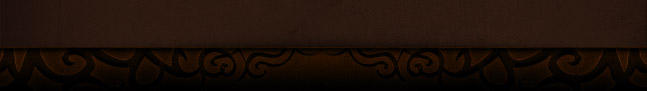
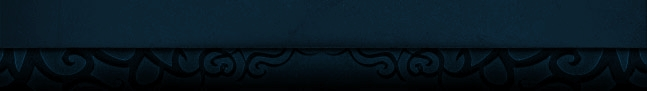
Web/Update: More work on the Default Theme.

diff --git a/wow/static/Themes/Default/css/wow.css b/wow/static/Themes/Default/css/wow.css
@@ -355,9 +355,9 @@ tr:hover .fansite-link,
 .chrome #menu li a span { text-shadow: none; }
 
 /* content */
-#content { background-color: #1a0f08 !important; margin: 0 6px; }
-#content .content-top { background: url("../images/layout/content-topbot.png") 0 0 no-repeat; }
-#content .content-bot { background: url("../images/layout/content-topbot.png") -992px bottom no-repeat; min-height: 600px; }
+#content { background-color: #06131B !important; margin: 0 6px; }
+#content .content-top { background: url("../images/layout/content-topbot.jpg") 0 0 no-repeat; }
+#content .content-bot { background: url("../images/layout/content-topbot.jpg") -992px bottom no-repeat; min-height: 600px; }
 #content .content-trail { height: 30px; padding: 10px 0 0 22px; }
 #content .content-header { padding: 25px; padding-top: 35px; }
 #content .content-header .header { color: #efe3d2; font: 52px/85% "Palatino Linotype", Georgia, Times, sans-serif; letter-spacing: -1.5px; text-shadow: #241209 0 0 5px; }
@@ -447,7 +447,7 @@ tr:hover .fansite-link,
 
 	/* real table */
 	.table table { width: 100%; table-layout: auto; }
-	.table thead th { padding: 0; background: #4d1a08 url("../images/content/table-header.gif") 0 100% repeat-x; border-bottom: 1px solid #1a0f08; white-space: nowrap; }
+	.table thead th { padding: 0; background: #4d1a08 url("../images/content/table-header.gif") 0 100% repeat-x; border-bottom: 1px solid #06131B; white-space: nowrap; }
 	.table thead th, .table thead th a { color: #F5EBD1; font-weight: bold;}
 	.table thead th.align-center .sort-tab, .table thead th.align-center .sort-link { text-align: center; }
 	.table thead th.align-right .sort-tab, .table thead th.align-right .sort-link { text-align: right; }

diff --git a/media/index.php b/media/index.php
@@ -7,23 +7,20 @@ $page_cat="media";
 <!--[if IE 7]>         <html class="no-js lt-ie9 lt-ie8"> <![endif]-->
 <!--[if IE 8]>         <html class="no-js lt-ie9"> <![endif]-->
 <!--[if gt IE 8]><!--> <html class="no-js"> <!--<![endif]-->
- <html lang="en-gb">
+<html lang="en-gb">
 <head>
 <title><?php echo $website['title']; ?></title>
 <meta content="false" http-equiv="imagetoolbar" />
 <meta content="IE=edge,chrome=1" http-equiv="X-UA-Compatible" />
 <meta name="description" content="<?php echo $website['description']; ?>">
 <meta name="keywords" content="<?php echo $website['keywords']; ?>">
-<link rel="shortcut icon" href="../wow/static/local-common/images/favicons/wow.png" type="image/x-icon" />
-<link rel="search" type="application/opensearchdescription+xml" href="http://eu.battle.net/en-gb/data/opensearch" title="Battle.net Search" />
-<link rel="stylesheet" href="../wow/static/local-common/css/common.css?v17" />
-<link title="World of Warcraft - News" href="../wow/en/feed/news" type="application/atom+xml" rel="alternate"/>
-<link rel="stylesheet" href="../wow/static/css/wow.css?v7" />
-<link rel="stylesheet" href="../wow/static/local-common/css/media-gallery.css?v17" />
-<link rel="stylesheet" href="../wow/static/css/media/media.css?v7" />
-<script src="../wow/static/local-common/js/third-party/jquery-1.4.4-p1.min.js"></script>
-<script src="../wow/static/local-common/js/core.js?v17"></script>
-<script src="../wow/static/local-common/js/tooltip.js?v17"></script>
+<link rel="shortcut icon" href="<?php echo $website['root']; ?>wow/static/local-common/images/favicons/wow.png" type="image/x-icon" />
+<?php GetStyle(); ?>
+<script src="http://code.jquery.com/jquery-1.10.1.min.js"></script>
+<script src="<?php echo $website['root']; ?>wow/static/local-common/js/third-party/jquery-1.4.4-p1.min.js"></script>
+<script src="<?php echo $website['root']; ?>wow/static/local-common/js/core.js?v15"></script>
+<script src="<?php echo $website['root']; ?>wow/static/local-common/js/tooltip.js?v15"></script>
+<script src="http://static.wowhead.com/widgets/power.js"></script>
 <!--[if IE 6]> <script type="text/javascript">
 //<![CDATA[
 try { document.execCommand('BackgroundImageCache', false, true) } catch(e) {}
@@ -63,7 +60,7 @@ _gaq.push(['_trackPageview']);
 			<a href="index.php" rel="np"><?php echo $website['title']; ?></a>
 			<span class="breadcrumb-arrow"></span>
 			</li>
-			<li class="last children"><a href="../media.php" rel="np"><?php echo $Media['Media']; ?></a>
+			<li class="last children"><a href="<?php echo $website['root']; ?>/media/media.php" rel="np"><?php echo $Media['Media']; ?></a>
 			</li>
 			</ol>
 			</div>
@@ -71,7 +68,7 @@ _gaq.push(['_trackPageview']);
 					<div class="media-content">
 						<div id="media-index">
 							<div class="media-index-section float-left">
-								<a class="gallery-title videos" href="./media/videos_index.php">
+								<a class="gallery-title videos" href="<?php echo $website['root']; ?>/media/videos_index.php">
 								<span class="view-all"><span class="arrow"></span><?php echo $Media['AllVideos']; ?></span>
 								<span class="gallery-icon"></span>
                                 <?php
@@ -105,7 +102,7 @@ _gaq.push(['_trackPageview']);
 							
 							<div class="media-index-section float-right">
 							
-								<a class="gallery-title screenshots" href="../media/images_index.php?type=2">
+								<a class="gallery-title screenshots" href="<?php echo $website['root']; ?>media/images_index.php?type=2">
 								<span class="view-all"><span class="arrow"></span>All Screenshots</span>
 								<?php
                   $screen_all = mysql_query("SELECT * FROM media WHERE visible = '1' AND type = '2'");
@@ -125,7 +122,7 @@ _gaq.push(['_trackPageview']);
                     if ($pos % 2 == 0 ){ echo 'left-col';} //correct postion depends of number
                     if ($pos > 2){ echo 'bottom-row';}
                     $pos++; ?>" 
-                    href="../media/images_visor.php?type=2&id=<?php echo $screen['id']; ?>#/<?php echo $screen['id']; ?>">
+                    href="<?php echo $website['root']; ?>media/images_visor.php?type=2&id=<?php echo $screen['id']; ?>#/<?php echo $screen['id']; ?>">
 									<span class="thumb-bg" style="background-image:url(<?php echo 'images/wallpapers/'.$screen['id_url'];  ?>);background-size: 189px 118px">
 									<span class="thumb-frame"></span>
 									</span>
@@ -145,7 +142,7 @@ _gaq.push(['_trackPageview']);
                   $art_all = mysql_query("SELECT * FROM media WHERE visible = '1' AND type = '3'");
                   $art_total = mysql_num_rows($art_all);
                 ?>
-								<a class="gallery-title artwork" href="../media/images_index.php?type=3">
+								<a class="gallery-title artwork" href="<?php echo $website['root']; ?>media/images_index.php?type=3">
 								<span class="view-all"><span class="arrow"></span>All Artwork</span>
 								<span class="gallery-icon"></span>
 								Artwork <span class="total">(<?php echo $art_total; ?>)</span></a>
@@ -160,7 +157,7 @@ _gaq.push(['_trackPageview']);
                   <?php 
                     if ($pos % 2 == 0 ){ echo 'left-col';} //correct postion depends of number
                     $pos++; ?>" 
-                  <a href="../media/images_visor.php?type=3&id=<?php echo $art['id']; ?>#/<?php echo $art['id']; ?>" />
+                  <a href="<?php echo $website['root']; ?>media/images_visor.php?type=3&id=<?php echo $art['id']; ?>#/<?php echo $art['id']; ?>" />
 									<span class="thumb-bg" style="background-image:url(<?php echo 'images/wallpapers/'.$art['id_url'];  ?>);background-size: 189px 118px">
 									<span class="thumb-frame"></span>
 									</span>
@@ -178,7 +175,7 @@ _gaq.push(['_trackPageview']);
                 $wall_all = mysql_query("SELECT * FROM media WHERE visible = '1' AND type = '1'");
                 $wall_total = mysql_num_rows($wall_all);
               ?>
-								<a class="gallery-title wallpapers" href="../media/images_index.php?type=1">
+								<a class="gallery-title wallpapers" href="<?php echo $website['root']; ?>media/images_index.php?type=1">
 								<span class="view-all"><span class="arrow"></span>All Wallpapers</span>
 								<span class="gallery-icon"></span>
 								Wallpapers <span class="total">(<?php echo $wall_total; ?>)</span>
@@ -194,7 +191,7 @@ _gaq.push(['_trackPageview']);
                   <?php 
                     if ($pos % 2 == 0 ){ echo 'left-col';} //correct postion depends of number
                     $pos++; ?>" 
-                  href="../media/images_visor.php?type=1&id=<?php echo $wall['id']; ?>#/<?php echo $wall['id']; ?>">
+                  href="<?php echo $website['root']; ?>media/images_visor.php?type=1&id=<?php echo $wall['id']; ?>#/<?php echo $wall['id']; ?>">
 									<span class="thumb-bg" style="background-image:url(<?php echo 'images/wallpapers/'.$wall['id_url'];  ?>);background-size: 189px 118px">
 									<span class="thumb-frame"></span>
 									</span>
@@ -212,7 +209,7 @@ _gaq.push(['_trackPageview']);
                 $wall_all = mysql_query("SELECT * FROM media WHERE visible = '1' AND type = '4'");
                 $wall_total = mysql_num_rows($wall_all);
               ?>
-								<a class="gallery-title comics" href="../media/images_index.php?type=4">
+								<a class="gallery-title comics" href="<?php echo $website['root']; ?>media/images_index.php?type=4">
 								<span class="view-all"><span class="arrow"></span>All Comics</span>
 
 								<span class="gallery-icon"></span>
@@ -228,7 +225,7 @@ _gaq.push(['_trackPageview']);
                   <?php 
                     if ($pos % 2 == 0 ){ echo 'left-col';} //correct postion depends of number
                     $pos++; ?>" 
-                  href="../media/images_visor.php?type=4&id=<?php echo $wall['id']; ?>#/<?php echo $wall['id']; ?>">
+                  href="<?php echo $website['root']; ?>media/images_visor.php?type=4&id=<?php echo $wall['id']; ?>#/<?php echo $wall['id']; ?>">
 									<span class="thumb-bg" style="background-image:url(<?php echo 'images/wallpapers/'.$wall['id_url'];  ?>);background-size: 189px 118px">
 									<span class="thumb-frame"></span>
 									</span>
@@ -247,9 +244,7 @@ _gaq.push(['_trackPageview']);
 					</div>
 				</div>
 			</div>
-		
 			<?php include("../footer.php"); ?>
-		
 		</div>
 	</div>
 

diff --git a/index.php b/index.php
@@ -1,6 +1,5 @@
 <?php
 require_once("configs.php");
-
 $page_cat = "home";
 ?>
 <!doctype html>
@@ -15,15 +14,13 @@ $page_cat = "home";
 	<meta name="viewport" content="width=device-width">
 	<meta name="description" content="<?php echo $website['description']; ?>">
     <meta name="keywords" content="<?php echo $website['keywords']; ?>">
-	<link rel="shortcut icon" href="wow/static/local-common/images/favicons/wow.png" type="image/x-icon">
-	<link rel="search" type="application/opensearchdescription+xml" href="http://eu.battle.net/en-gb/data/opensearch" title="Battle.net Search">
-	
+	<link rel="shortcut icon" href="<?php echo $website['root']; ?>wow/static/local-common/images/favicons/wow.png" type="image/x-icon">
 	<link title="World of Warcraft - News" href="wow/en/feed/news" type="application/atom+xml" rel="alternate">
 	<?php GetStyle(); ?>
 	<script src="http://code.jquery.com/jquery-1.10.1.min.js"></script>
-	<script src="wow/static/local-common/js/third-party/jquery-1.4.4-p1.min.js"></script>
-	<script src="wow/static/local-common/js/core.js?v15"></script>
-	<script src="wow/static/local-common/js/tooltip.js?v15"></script>
+	<script src="<?php echo $website['root']; ?>wow/static/local-common/js/third-party/jquery-1.4.4-p1.min.js"></script>
+	<script src="<?php echo $website['root']; ?>wow/static/local-common/js/core.js?v15"></script>
+	<script src="<?php echo $website['root']; ?>wow/static/local-common/js/tooltip.js?v15"></script>
 	<script src="http://static.wowhead.com/widgets/power.js"></script>
 	<!--[if IE 6]> <script type="text/javascript">
 	//<![CDATA[
@@ -44,8 +41,8 @@ $page_cat = "home";
 			<div class="content-bot">	
 				<div id="homepage">
 					<div id="left">
-						<script src="wow/static/local-common/js/slideshow.js"></script>
-						<script src="wow/static/local-common/js/third-party/swfobject.js"></script>
+						<script src="<?php echo $website['root']; ?>wow/static/local-common/js/slideshow.js"></script>
+						<script src="<?php echo $website['root']; ?>wow/static/local-common/js/third-party/swfobject.js"></script>
 						<div id="slideshow" class="ui-slideshow">
 							<div class="slideshow">
 							<?php

diff --git a/configs.php b/configs.php
@@ -70,11 +70,11 @@ $_SESSION['Local'] = $language;
 */
 $serveraddress = "127.0.0.1";
 $serveruser    = "root";
-$serverpass    = "";
+$serverpass    = "password";
 $serverport    = "3306";
 define('DBHOST', 'localhost');
 define('DBUSER', 'root');
-define('DBPASS', '');
+define('DBPASS', 'password');
 define('DB', 'website');
 
 /*
@@ -158,7 +158,7 @@ $website['title']       = "AquaFlameCMS 1.0";
 $website['description'] = "AquaFlameCMS 1.0 the best of the best!";
 $website['keywords']    = "AquaFlameCMS 1.0, The Best CMS";
 $website['address']     = "http://localhost";
-$website['root']        = "/";
+$website['root']        = "/AquaFlameCMS_Trinity/";
 
 /*
 |--------------------------------------------------------------------------
